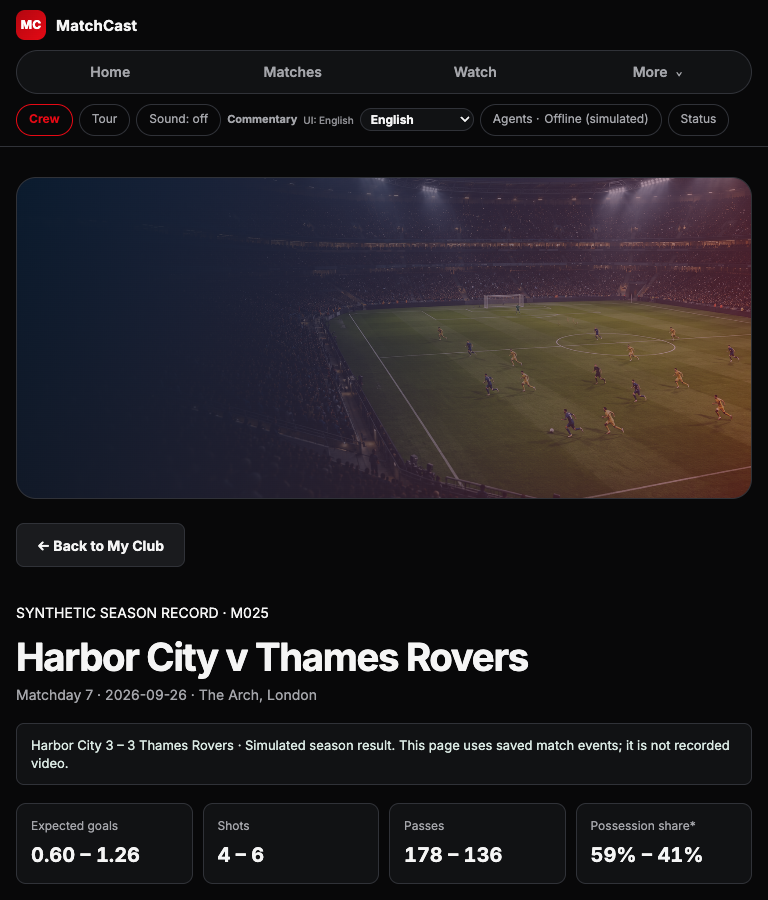
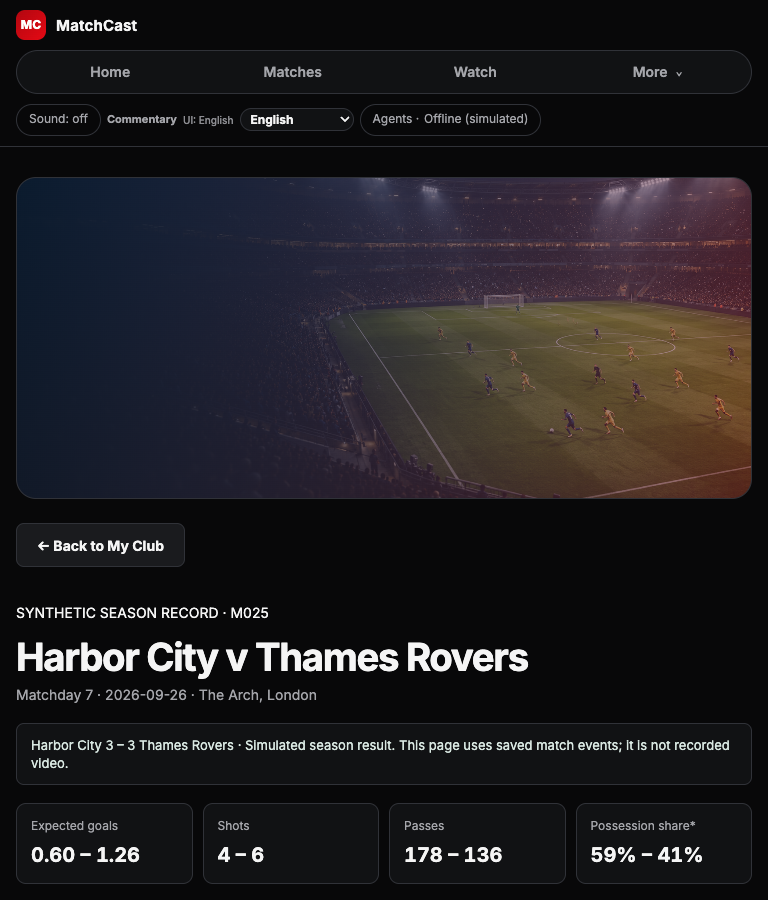
AB#373 Simplify the MatchCast header

Changed region(s): [[0.0312, 0.1244, 0.8438, 0.1556], [0.875, 0.1244, 0.9375, 0.1556], [0.4062, 0.8089, 0.4375, 0.84]]

diff --git a/apps/unified/index.html b/apps/unified/index.html
@@ -70,9 +70,9 @@ button.pill{background:none;cursor:pointer;font-family:inherit}
 
 /* ---- browse: Home and Matches. Catalog only, so no 3D engine starts here; the match bar and the five-stage strip stay on the player views ---- */
 body[data-view="home"] .matchbar,body[data-view="home"] .story,body[data-view="matches"] .matchbar,body[data-view="matches"] .story,body[data-view="highlights"] .matchbar,body[data-view="highlights"] .story,body[data-view="my-list"] .matchbar,body[data-view="my-list"] .story,body[data-view="my-club"] .matchbar,body[data-view="my-club"] .story,body[data-view="match"] .matchbar,body[data-view="match"] .story{display:none}
-.tools-menu{position:absolute;right:0;top:calc(100% + 8px);z-index:20;min-width:244px;padding:8px;border:1px solid var(--line);border-radius:12px;background:var(--bg2);box-shadow:0 14px 34px rgba(0,0,0,.42)}
+.tools-menu{position:absolute;right:0;top:calc(100% + 8px);z-index:20;min-width:244px;max-height:calc(100vh - 80px);overflow-y:auto;padding:8px;border:1px solid var(--line);border-radius:12px;background:var(--bg2);box-shadow:0 14px 34px rgba(0,0,0,.42)}
 .tools-menu[hidden]{display:none}
-.tools-menu button{width:100%;justify-content:flex-start;border-radius:8px}
+.tools-menu button{width:100%;min-height:40px;justify-content:flex-start;border-radius:8px}
 .tools-menu button.sec{color:#9FB3CF;font-weight:500}
 .tools-menu button.sec[aria-current="page"]{color:var(--accent-ink)}
 .tools-menu button:hover{background:var(--bg3)}
@@ -405,15 +405,17 @@ dialog.tour button.go{background:var(--accent-strong);border-color:var(--accent-
       <button type="button" id="tab-analyst" data-view="analyst" class="sec" title="Analyze: the season analysis console (4)">Analyze</button>
       <button type="button" id="tab-broadcast" data-view="broadcast" class="sec" title="Production Studio: the broadcast desk (5)">Production Studio</button>
       <button type="button" id="tab-agents" data-view="agents" class="sec" title="Agents: the agent pipeline (6)">Agents</button>
+      <hr>
+      <p class="menu-label">Help & status</p>
+      <button type="button" class="pill sec" id="crew-btn" hidden aria-label="Crew: open the agent crew, its spawn tree and scoreboard" title="Crew: agent specialists, spawn tree and scoreboard">Crew</button>
+      <button type="button" class="pill sec" id="tour-btn" aria-haspopup="dialog" title="A 60-second guide for first-time visitors">Tour</button>
+      <button type="button" class="pill sec" id="status-btn" aria-haspopup="dialog" title="Which parts are live, simulated or planned">Status & service details</button>
     </div>
   </nav>
   <div class="status" aria-label="Environment">
-    <button type="button" class="pill" id="crew-btn" hidden aria-label="Crew: open the agent crew, its spawn tree and scoreboard" title="Crew: the agents that make each line, their spawn tree and the scoreboard (opens the Agents tab)">Crew</button>
-    <button type="button" class="pill" id="tour-btn" aria-haspopup="dialog" title="A 60-second guide for first-time visitors">Tour</button>
     <button type="button" class="pill" id="voice-btn" aria-pressed="false" title="Play spoken match commentary. Captions and on-screen text stay visible when sound is off.">Sound: off</button><span class="pill" id="voice-src" aria-live="polite"></span><button type="button" class="pill" id="voice-demo" aria-pressed="false" hidden title="Play a fixed Azure Speech sample of the commentary voice">Voice sample</button>
     <label id="lang-sel" title="Changes match commentary and speech. Interface labels remain in English."><span>Commentary</span><span class="ui-scope" aria-hidden="true">UI: English</span><select id="lang-pick" aria-label="Commentary and speech language" aria-describedby="lang-scope-note"></select><span class="sr" id="lang-scope-note">Changes match commentary and speech where a checked translation is available. Navigation and interface labels remain in English.</span></label>
     <span class="pill" id="api-pill" role="status" title="">Starting…</span><span class="pill" id="lat-pill" hidden title="Event to on air: wall-clock time from a Watch event reaching this page to the agent api's published line arriving here, the median of the last 30 matched lines. Watch batches its events once a second before they reach this page; that wait is not in the number."></span>
-    <button type="button" class="pill" id="status-btn" aria-haspopup="dialog" title="Which parts are live, simulated or planned">Status</button>
     <span class="more" aria-hidden="true">›</span>
   </div>
 </header>
@@ -849,6 +851,7 @@ function show(view) {
   if (BROWSE[view]) $('v-' + view).scrollTop = BROWSE[view].y;
   paint();
 }
+function closeMoreMenu() { $('more-menu').hidden = true; $('more-toggle').setAttribute('aria-expanded', 'false'); }
 
 // ---------------------------------------------------------------- browse: Home and Matches
 // The catalog is the season (FX): each fixture's teams, colours, matchday, date, stadium and recorded score. Nothing here is ranked by
@@ -1722,7 +1725,7 @@ function init(list) {
   if (new URLSearchParams(location.search).get('seedBadClaim') === '1') { $('ag-bad').checked = true; $('ag-bad').onchange({ target: $('ag-bad') }); }   // filming URL: the demo bad claim is on from the start
   paintPill(LV.status);
   renderAgents();
-  $('status-btn').onclick = () => { const dlg = $('status-dlg'); STX.draw($('status-box')); if (dlg.showModal) dlg.showModal(); };
+  $('status-btn').onclick = () => { closeMoreMenu(); const dlg = $('status-dlg'); STX.draw($('status-box')); if (dlg.showModal) dlg.showModal(); };
   show(location.hash.slice(1) || 'home');
 }
 
@@ -1745,7 +1748,7 @@ function tourShow(i) {
 }
 function tourOpen() { const d = $('tour'); if (!d.open) d.showModal(); tourShow(0); }
 function tourInit() {
-  $('tour-btn').onclick = tourOpen;
+  $('tour-btn').onclick = () => { closeMoreMenu(); tourOpen(); };
   $('tour-skip').onclick = () => $('tour').close();
   $('tour-back').onclick = () => tourShow(tourAt - 1);
   $('tour-go').onclick = () => {

diff --git a/tests/e2e/shell-header.spec.ts b/tests/e2e/shell-header.spec.ts
@@ -1,6 +1,6 @@
 import { test, expect } from './fixtures';
 
-// Browse keeps its three primary routes visible and groups production tools in a compact menu.
+// Browse keeps its three primary routes visible and groups secondary pages, tools and utilities in More.
 for (const width of [1280, 1440]) {
   test(`shell header at ${width} px: primary routes fit beside the wordmark and tools stay reachable`, async ({ page }) => {
     await page.setViewportSize({ width, height: 800 });
@@ -9,13 +9,15 @@ for (const width of [1280, 1440]) {
       const r = (s: string) => { const e = document.querySelector(s) as HTMLElement; const b = e.getBoundingClientRect(); return { l: b.left, r: b.right, sw: e.scrollWidth, cw: e.clientWidth }; };
       const primary = [...document.querySelectorAll('.switch > [data-view]')].map((b) => b.textContent?.trim());
       const tools = [...document.querySelectorAll('#more-menu [data-view]')].map((b) => b.textContent?.trim());
-      return { brand: r('.top .brand'), word: r('.top .brand b'), sw: r('.switch'), primary, tools };
+      const utilities = [...document.querySelectorAll('#more-menu #crew-btn,#more-menu #tour-btn,#more-menu #status-btn')].map((b) => b.textContent?.trim());
+      return { brand: r('.top .brand'), word: r('.top .brand b'), sw: r('.switch'), primary, tools, utilities };
     });
     expect(m.brand.r, 'the switcher starts after the wordmark').toBeLessThanOrEqual(m.sw.l + 1);
     expect(m.word.sw, 'the wordmark is not clipped').toBeLessThanOrEqual(m.word.cw + 1);
     expect(m.sw.sw, 'navigation fits without horizontal scrolling').toBeLessThanOrEqual(m.sw.cw + 1);
     expect(m.primary).toEqual(['Home', 'Matches', 'Watch']);
-    expect(m.tools).toEqual(['Highlights', 'My List', 'Analyze', 'Production Studio', 'Agents']);
+    expect(m.tools).toEqual(['Highlights', 'My List', 'My Club', 'Analyze', 'Production Studio', 'Agents']);
+    expect(m.utilities).toEqual(['Crew', 'Tour', 'Status & service details']);
     await page.locator('#more-toggle').click();
     await expect(page.locator('#more-menu')).toBeVisible();
     await page.locator('#tab-analyst').click();

diff --git a/tests/e2e/crew-default.spec.ts b/tests/e2e/crew-default.spec.ts
@@ -16,6 +16,7 @@ test('crew is on by default: the Crew button shows, Watch gets crew=1, the feed 
   const errs = collectErrors(page);
   await open(page);
   expect(await page.evaluate(() => (window as any).CREW.enabled)).toBe(true);
+  await page.locator('#more-toggle').click();
   await expect(page.getByRole('button', { name: /^Crew/ })).toBeVisible();
   await ready('watch')(page);
   expect(await watchSrc(page)).toMatch(/[?&]crew=1(&|$)/);
@@ -49,6 +50,7 @@ test('localStorage mc-crew=0 turns it off; an explicit ?crew=1 beats it', async 
   await page.goto('/index.html?split=1&crew=1#watch', { waitUntil: 'domcontentloaded' });
   await page.waitForFunction(() => !!(window as any).CREW);
   expect(await page.evaluate(() => (window as any).CREW.enabled)).toBe(true);
+  await page.locator('#more-toggle').click();
   await expect(page.locator('#crew-btn')).toBeVisible();
 });
 
@@ -91,6 +93,7 @@ test('the Crew button opens the Agents tab at the Crew section, by keyboard, and
   test.setTimeout(300_000);
   await open(page);
   const btn = page.getByRole('button', { name: /^Crew/ });
+  await page.locator('#more-toggle').click();
   await expect(btn).toBeVisible();
   await btn.focus();
   await expect(btn).toBeFocused();
@@ -106,6 +109,7 @@ test('Crew button at 320 px: visible, tappable, no sideways scroll, and it opens
   test.setTimeout(300_000);
   await open(page, '', 320, 640);
   const btn = page.getByRole('button', { name: /^Crew/ });
+  await page.locator('#more-toggle').click();
   await expect(btn).toBeVisible();
   const b = await btn.boundingBox();
   expect(b!.x).toBeGreaterThanOrEqual(0);

diff --git a/tests/e2e/voice-demo.spec.ts b/tests/e2e/voice-demo.spec.ts
@@ -41,11 +41,15 @@ for (const [name, opts] of [['live api', { live: true, clip: 500 }], ['api confi
 test('phone header: language, Voice and Status are visible and 44 px', async ({ page }) => {
   await page.setViewportSize({ width: 390, height: 800 });
   await openShell(page, 'agents');
-  for (const sel of ['#lang-pick', '#voice-btn', '#status-btn']) {
+  for (const sel of ['#lang-pick', '#voice-btn']) {
     const el = page.locator(sel);
     await expect(el, sel).toBeVisible();
     expect((await el.boundingBox())!.height, sel + ' tap target').toBeGreaterThanOrEqual(44);
   }
+  await page.locator('#more-toggle').click();
+  const status = page.locator('#status-btn');
+  await expect(status).toBeVisible();
+  expect((await status.boundingBox())!.height, 'Status tap target').toBeGreaterThanOrEqual(44);
   expect(await page.evaluate(() => document.documentElement.scrollWidth <= window.innerWidth), 'no sideways scroll').toBe(true);
   await page.locator('#lang-pick').selectOption('es');
   await expect(page.locator('#lang-pick')).toHaveValue('es');

diff --git a/tests/e2e/connection.spec.ts b/tests/e2e/connection.spec.ts
@@ -96,6 +96,7 @@ test('offline: Offline (simulated) and no api call', async ({ page }) => {
 test('status dialog: offline says everything is simulated', async ({ page }) => {
   const errs = collectErrors(page);
   await drive(page, '');
+  await page.locator('#more-toggle').click();
   await page.locator('#status-btn').click();
   await expect(page.locator('#status-dlg')).toBeVisible();
   await expect(page.locator('#status-box')).toContainText('No api is configured');
@@ -110,6 +111,7 @@ test('status dialog: lists each dependency from /v1/status', async ({ page }) =>
     { key: 'c', label: 'Sim thing', status: 'simulated', detail: 'in memory' }] };
   await page.route('**/v1/status', (rt) => rt.fulfill({ contentType: 'application/json', headers: { 'Access-Control-Allow-Origin': '*' }, body: JSON.stringify(doc) }));
   await drive(page, 'http://127.0.0.1:9');
+  await page.locator('#more-toggle').click();
   await page.locator('#status-btn').click();
   const items = page.locator('#status-box li');
   await expect(items).toHaveCount(3);

diff --git a/tests/e2e/tour.spec.ts b/tests/e2e/tour.spec.ts
@@ -5,6 +5,7 @@ import { openShell, viewFrame } from './helpers';
 test('tour: the button opens a five-step guide that switches views, and Escape closes it', async ({ page }) => {
   await openShell(page, 'watch');
   await expect(page.locator('#tour')).not.toBeVisible();   // never opens by itself
+  await page.locator('#more-toggle').click();
   await page.click('#tour-btn');
   const d = page.locator('#tour');
   await expect(d).toBeVisible();
@@ -21,6 +22,7 @@ test('tour: the button opens a five-step guide that switches views, and Escape c
   await expect(page.locator('#tour-go')).toHaveText('Done');
   await page.click('#tour-go');
   await expect(d).not.toBeVisible();
+  await page.locator('#more-toggle').click();
   await page.click('#tour-btn');
   await page.keyboard.press('Escape');
   await expect(d).not.toBeVisible();

diff --git a/tests/e2e/first-screen.spec.ts b/tests/e2e/first-screen.spec.ts
@@ -30,7 +30,8 @@ test('Watch shows one moment in two voices, and the Verifier chip opens the Veri
 
   await expect(page.locator('.top .pill', { hasText: 'Browser prototype' })).toHaveCount(0);
   await expect(page.locator('.top .pill', { hasText: 'Azure parts simulated' })).toHaveCount(0);
-  await expect(page.locator('#status-btn')).toBeVisible();   // the honest breakdown stays one click away
+  await page.locator('#more-toggle').click();
+  await expect(page.locator('#status-btn')).toBeVisible();   // service details are grouped under More
   expect(errs).toEqual([]);
 });
 

diff --git a/docs/architecture/11-frontend.md b/docs/architecture/11-frontend.md
@@ -142,7 +142,7 @@ Watch's 4 Hz `frame` message carries a sixth element per player, `actOf(p.act)` 
 
 ## Status dialog and Analyst service status (22 Oct)
 
-The top bar has a Status button beside the api pill. It opens a dialog built by `apps/unified/status.js` from `GET {MATCHCAST_API}/v1/status` (doc 12): every dependency as Live, Simulated, Planned or Unavailable, with the api's own detail text. With no api configured, or no answer in 8 s, it says the console runs on in-page stand-ins (simulated); the page never invents a state. The Analyst's Platform > Service status page shows the same table in a card above its checks (`analyst-pages/50_service_status.js`; the card is redrawn with the page from a cached answer). Text is set with `textContent`. Tested in `tests/e2e/connection.spec.ts` and `analyst.spec.ts`.
+The top bar keeps the language, spoken-commentary toggle and compact agent status visible. More > Help & status contains Tour, Crew and Status & service details. Status opens a dialog built by `apps/unified/status.js` from `GET {MATCHCAST_API}/v1/status` (doc 12): every dependency as Live, Simulated, Planned or Unavailable, with the api's own detail text. With no api configured, or no answer in 8 s, it says the console runs on in-page stand-ins (simulated); the page never invents a state. The Analyst's Platform > Service status page shows the same table in a card above its checks (`analyst-pages/50_service_status.js`; the card is redrawn with the page from a cached answer). Text is set with `textContent`. Tested in `tests/e2e/connection.spec.ts` and `analyst.spec.ts`.
 
 ## Live stream cards and Talk (Experience)
 
@@ -205,7 +205,7 @@ The top bar has a Status button beside the api pill. It opens a dialog built by 
 
 ### Pass 9 (25 Oct): the split stage changes the arithmetic
 - The evaluator found the pass 8 layout wrong in the split stage (Watch pane 745 to 835 px): the layout had been keyed on window width. `dock()` and the Vision-box default now use the Watch pane's own width (see above); `watch-docked-cards.spec.ts` opens the Copilot drawer too.
-- Shell header: Home, Matches and Watch are the primary routes. More groups Highlights, My List, My Club, Analyze, Production Studio and Agents; it is keyboard-accessible and shows the active page. At 390 px and below the four primary controls fit without sideways scrolling. Specs: `shell-header.spec.ts`, `shell-a11y.spec.ts`, `shell-layout.spec.ts`.
+- Shell header: Home, Matches and Watch are the primary routes. More groups Highlights, My List, My Club, Analyze, Production Studio, Agents and Help & status; it is keyboard-accessible and shows the active page. At 390 px and below the primary routes fit without sideways scrolling. Specs: `shell-header.spec.ts`, `shell-a11y.spec.ts`, `shell-layout.spec.ts`.
 - Browse: the shell uses one black and charcoal palette with a red accent and shared color, type, spacing, radius and focus tokens. Home has a stadium-cover hero and season rows; Matches has search, team, matchday and sort filters. Past season matches open their saved event-and-stat detail without starting Watch. My Club saves a favorite on this device and separates its synthetic season matches from the real national-team history demo. Highlights lists only clips available from the current Watch session and has no playback control when there are none; the cover art is illustrative, not a saved video frame. Specs: `browse-pages.spec.ts`, `browse-screenshots.spec.ts` and the shell layout specs.
 - Talk: a typed line that is a question or not an order, with no agent api, no longer gets "I hear you." The wording is "I can't act on or answer that here: this is the rules fallback (no checked answer from the agent api), which only follows plain orders such as press, mark or shoot." With the api connected nothing changes: a checked answer, or "No checked answer: the match record did not confirm that."
 - In a Watch pane of 561 to 1100 px the Copilot button leaves the top centre (where it landed on the camera chips) for the bottom right, 152 px up so it clears the caption card, and the Talk to a player control stacks above it (`embed/watch.js`). Below 561 px Watch's own phone rules apply. The followed-player card and the commentary card stop short of both buttons. When the commentary card has to step aside it is clipped out of sight and out of the tab order but stays in the page, so its live region keeps announcing lines; it returns when the drawer closes or the followed-player card goes.
@@ -216,7 +216,7 @@ The top bar has a Status button beside the api pill. It opens a dialog built by 
 A desk that joins mid-match is sent the approval queue and mode, the commentary feed and the agents pill when it announces `feed-ready`; lines already aired are not replayed (the desk would speak them again), so its on-air log starts at the join.
 
 ### Pass 10 and the judge re-test (25 Oct)
-- Phone header (390 and 320 px): the utilities wrap onto their own rows instead of running past the right edge. The language buttons and Status sit beside the wordmark, the four view tabs take the second row, and Tour, Voice and the agents pill wrap below. The scrolling "more" row is gone. Spec: `shell-layout.spec.ts`.
+- Phone header (390 and 320 px): the core header keeps Commentary, Sound, the agent state and the four navigation items. Tour, Crew and service details are grouped under More, so the controls do not wrap into several crowded rows. Spec: `shell-layout.spec.ts`.
 - Broadcast in a narrow pane: a child of the Broadcast stage that is wider than its pane is scaled down to fit (`embed/broadcast.js`, `fit()`), so the canvas no longer sits past the right edge.
 - Agents status: the warm-up timer only falls back to "Rules fallback" when the api has said nothing. An api that reported live keeps "Live agents" through a quiet warm-up, and a later claim or publication promotes a fallback back to live unless the api itself said `rules_fallback`. A stream that fails three times in a row drops to "Rules fallback" too, so the pill never reads live over a dead stream (`live.js`). The shell pill and the Broadcast desk say the same state. Specs: `connection.spec.ts`.
 - Copilot open: the followed-player card leaves the bottom-left corner to the Live commentary card (the drawer's Talk tab lists the followed player); the hidden card is also taken out of the tab order (`inert`). When the commentary card still has no room, the drawer says so: "The Live commentary card is hidden while Copilot is open. Close Copilot to see it again."
@@ -256,7 +256,7 @@ With the crew UI on (`CREW.enabled`, see `crew.js`; `?crew=0` changes nothing) t
 - **Storyline ledger**: verified claims grouped per club and player, with how many were aired (approved).
 - **Favourite club**: there is no shell-level favourite setting, so the view has a two-club select (stored in `localStorage` `mc-crew-fav`); the chosen side is marked `data-fav` and starred.
 - **Full console**: the button creates the same iframe as before, with the same `routeAnalyst` routing (`#live.<id>`, none for a national fixture). `routeAnalyst` does nothing while the live view shows, so the console loads only when asked for. A "Live view" button returns.
-- **Watch**: with the crew UI on and no `?demo=1`, `embed/democtl.js` also hides the Demo controls button, the weather chip and the camera presets. `?demo=1` restores them, and with them speed, player names and Match data. **Deliberate:** with the crew UI on, those controls are unreachable without `?demo=1` (Demo controls hidden by default); the "Replay at 4x" link remains. With `?crew=0` the presets stay hidden (AB#497) and `?demo=1` also shows them. Pause, Vision and Copilot stay.
+- **Watch**: with the crew UI on and no `?demo=1`, `embed/democtl.js` hides the Simulation settings button, the full weather chip and the camera presets. `?demo=1` restores the settings, and with them speed, player names and Match data. The compact simulated-weather badge stays visible so viewers know the rain or pitch conditions are part of the demo. With `?crew=0` the presets stay hidden (AB#497) and `?demo=1` also shows them. Pause, Vision and Copilot stay.
 Spec: `tests/e2e/crew-analyst.spec.ts`. Not done here: per-team territory (no honest source), and ledger lines from the crew fixture (they carry no player).
 
 ## Crew accuracy scoreboard (AB#442, on by default)
@@ -294,9 +294,9 @@ Watch's viewer panel has had a language row since the prototype (English, Tamil,
 Covered by `tests/e2e/watch-lang-picker.spec.ts`.
 
 ## Crew UI default-on, the Crew button and the off switch
-The crew UI is **on by default** because a judge will not add a query flag. The rule is one sentence, repeated in `crew.js`, `embed/feedpick.js`, `embed/langpick.js` and `embed/democtl.js`: on unless `?crew=0` is on the page (or on the parent page, for the Watch iframe) or `localStorage` `mc-crew` is `0`; an explicit `?crew=1` beats a stored `0`. The shell forwards the state to the Watch iframe as `crew=1` or `crew=0` (`url('watch')` in `index.html`), so the feed picker, the language row and the Demo-controls fold follow it. `?crew=0` is the off switch and restores the legacy Watch and Agents tab. `?demo=1` still brings back the Demo controls, the weather chip and the camera presets.
+The crew UI is **on by default** because a judge will not add a query flag. The rule is one sentence, repeated in `crew.js`, `embed/feedpick.js`, `embed/langpick.js` and `embed/democtl.js`: on unless `?crew=0` is on the page (or on the parent page, for the Watch iframe) or `localStorage` `mc-crew` is `0`; an explicit `?crew=1` beats a stored `0`. The shell forwards the state to the Watch iframe as `crew=1` or `crew=0` (`url('watch')` in `index.html`), so the feed picker, the language row and the Simulation-settings fold follow it. `?crew=0` is the off switch and restores the legacy Watch and Agents tab. `?demo=1` still brings back Simulation settings, the weather chip and the camera presets.
 
-- **Crew button.** A `Crew` pill sits in the header `.status` group (`#crew-btn`, `aria-label` "Crew: open the agent crew, its spawn tree and scoreboard"; hidden when the crew UI is off). It is a plain button, not a primary route. It opens Agents from More, scrolls the Crew section (`#crew-mount`, the spawn tree, with the scoreboard `#crew-score` below) into view and moves focus to its heading. Keyboard: Tab to it, Enter or Space. Tap target 44 px on a phone.
+- **Crew button.** More > Help & status contains `#crew-btn` (`aria-label` "Crew: open the agent crew, its spawn tree and scoreboard"; hidden when the crew UI is off). It opens Agents, scrolls the Crew section (`#crew-mount`, the spawn tree, with the scoreboard `#crew-score` below) into view and moves focus to its heading. Keyboard: Tab to it, Enter or Space. Tap target 44 px on a phone.
 - **Quiet Watch.** The Watch first screen adds only the feed picker in the commentary card header (language row stays in the viewer panel, closed). No crew panel, spawn tree or scoreboard is on Watch; they live in the Agents tab. The three unbuilt feeds (audio description, half-time explainer, news ticker) carry a "Planned" tag; Catch me up is live (below).
 - **Phone, default feed.** At 560 px and below the feed picker sits in the commentary card header. With the default feed (Casual) Watch keeps its own commentary line and the picker's one-line replacement stays hidden (`body.mc-feedon` is off). Only a viewer who picks another feed gets the one feed line in place of the commentary line, so live commentary is never lost by default.
 - **Score poll.** `CREW` polls the scoreboard GET only while the Agents tab is the current tab and the page is visible.

diff --git a/README.md b/README.md
@@ -16,7 +16,7 @@ Three things to click once it is open:
 
 1. **Watch** view: the match starts on load. Pick Casual or Analyst in the Feed picker (or a watch mode: My club, Player focus, One metric) and see the same moment explained differently; pick one of ten languages in the header.
 2. Press **Why?** or **How was this made?** on any line: the claim, its cited events and each agent's step.
-3. **Crew** pill (Agents tab): the spawn tree of the specialists each goal called, and the scoreboard. Then **Seed a bad claim** (the Verifier rejects a wrong number and repairs it from the raw event log) and **Cut the model** (the rules twins take over mid-match and the lines keep coming).
+3. **More → Crew** (Agents tab): the spawn tree of the specialists each goal called, and the scoreboard. Then **Seed a bad claim** (the Verifier rejects a wrong number and repairs it from the raw event log) and **Cut the model** (the rules twins take over mid-match and the lines keep coming).
 
 ## The five stages
 
